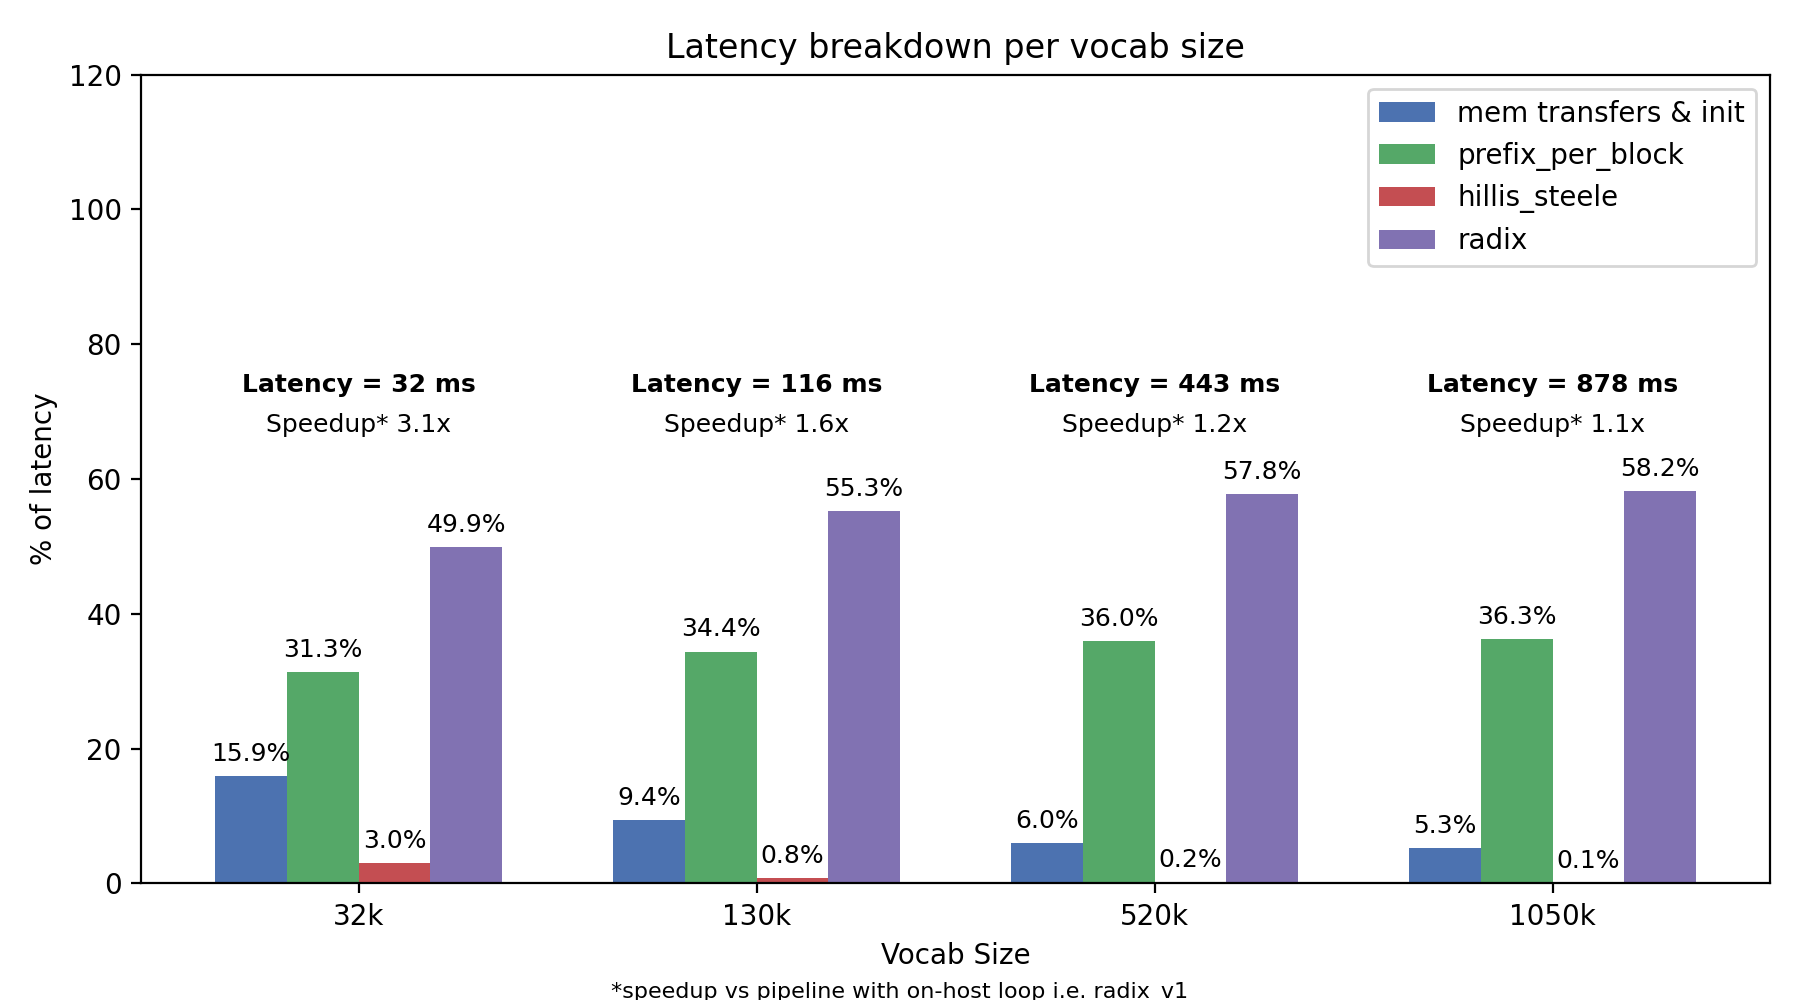
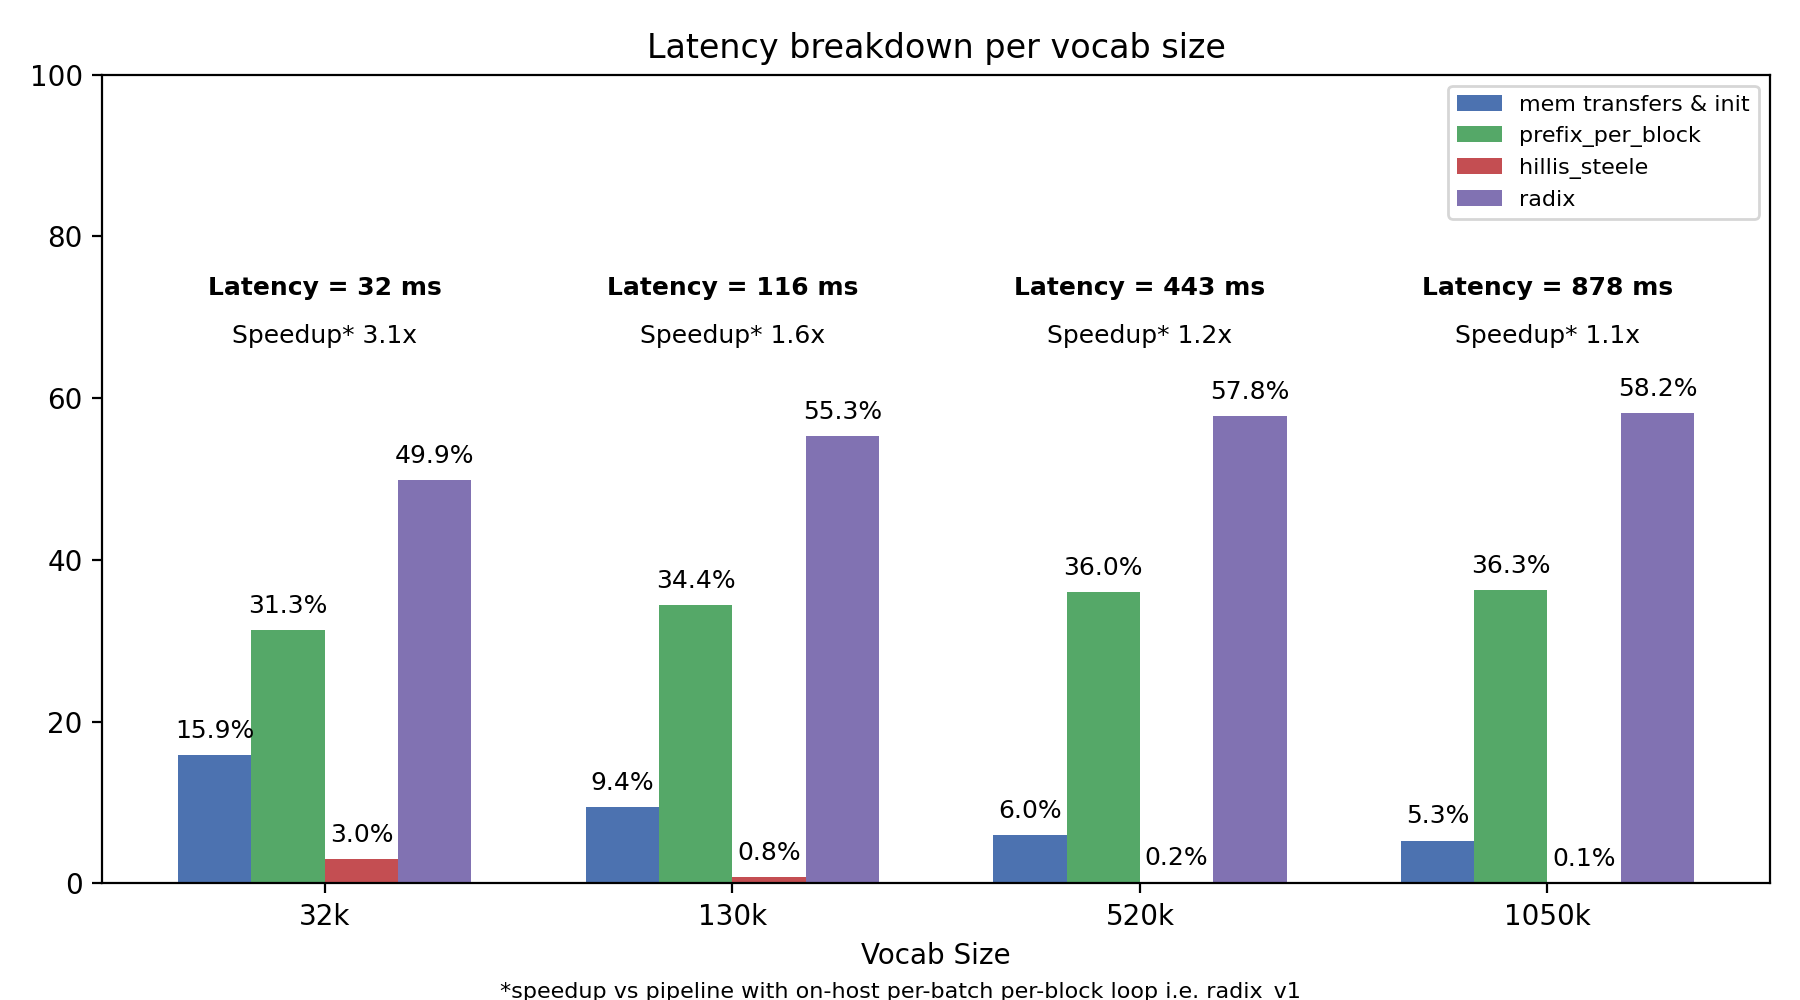
Final Run3 profiling summary

diff --git a/prof/scripts/plot_run3.py b/prof/scripts/plot_run3.py
@@ -42,11 +42,11 @@ ax.bar([p + 1.5*bar_width for p in x], radix_pct, bar_width, label='radix', colo
 ax.set_xticks(x)
 ax.set_xticklabels(labels)
 ax.set_xlabel('Vocab Size')
-ax.set_ylabel('% of latency')
-# allow room above 100 for annotations
-ax.set_ylim(0, 120)
+# Y axis: percent, cap at 100
+# (remove explicit y-axis label per request)
+ax.set_ylim(0, 100)
 ax.set_title('Latency breakdown per vocab size')
-ax.legend(loc='upper right', frameon=True)
+ax.legend(loc='upper right', frameon=True, fontsize=8)
 
 # Annotate each bar with its percent contribution
 for i in range(len(x)):
@@ -66,7 +66,7 @@ for i in range(len(x)):
 # Add explanatory footnote text below the plot (centered and moved lower)
 plt.subplots_adjust(bottom=0.40)
 # place the footnote lower
-fig.text(0.5, 0.002, "*speedup vs pipeline with on-host loop i.e. radix_v1", ha='center', fontsize=8)
+fig.text(0.5, 0.002, "*speedup vs pipeline with on-host per-batch per-block loop i.e. radix_v1", ha='center', fontsize=8)
 
 plt.tight_layout()
 out_path = '/teamspace/studios/this_studio/RadixSortNCU/prof/images/run3/radix_event_timing_chart.png'
